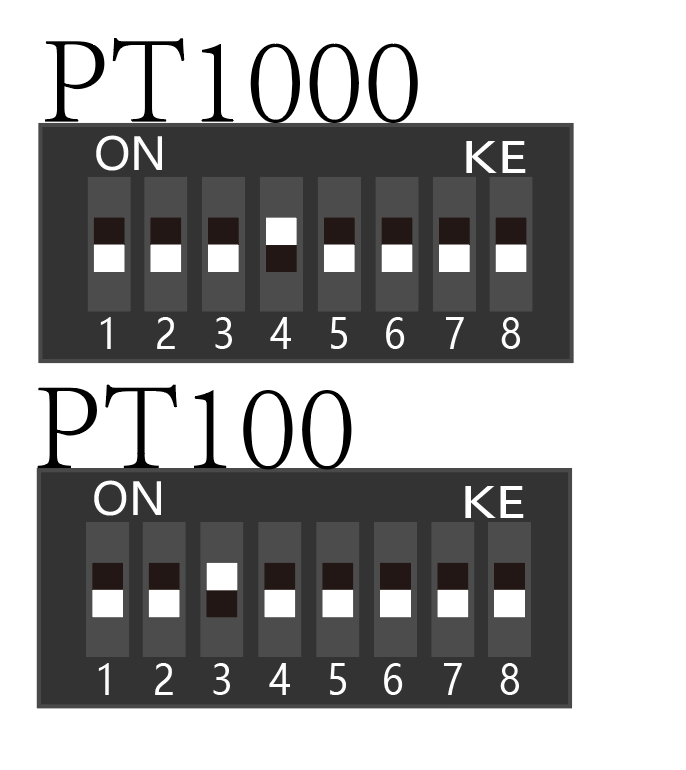
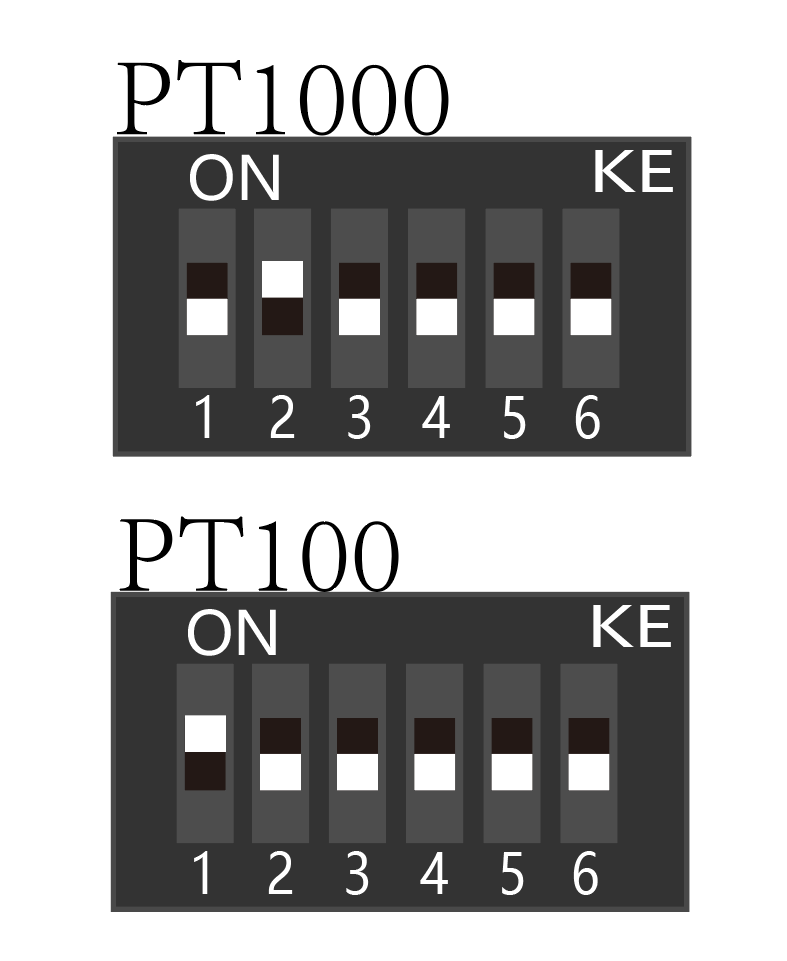
更新sht36v3

diff --git a/docs/board/fly_sht36_v3/cfg.md b/docs/board/fly_sht36_v3/cfg.md
@@ -1,12 +1,11 @@
-# 7. FLY-SB2040 v3配置参考
+# 7. FLY-SHT36 v3配置参考
 
 ```cfg
-
 #####################################################################
 # 	 Notes
 #####################################################################
-## 请将[include SB2040V3.cfg]添加到printer.cfg下
-## Please add [include SB2040V3.cfg] under printer.cfg
+## 请将[include SHT36V3.cfg]添加到printer.cfg下
+## Please add [include SHT36V3.cfg] under printer.cfg
 ## 工具板将使用以下几种配置，如果其他配置中使用到下面的配置可能会冲突
 ## The tool plate will use the following configurations, 
 ## and if the following configurations are used in other configurations, conflicts may occur.
@@ -16,34 +15,35 @@
 #####################################################################
 # 	 Master ID Configuration
 #####################################################################
-[mcu SB2040V3]  # 工具主板序列号
+[mcu SHT36V3]  # 工具主板序列号
 ## CAN ID
-## ~/klippy-env/bin/python ~/klipper/scripts/canbus_query.py can0
-canbus_uuid:
+## 查询指令~/klippy-env/bin/python ~/klipper/scripts/canbus_query.py can0
+canbus_uuid: 78fdc1f55345
 #--------------------------------------------------------------------
 # # RS232 ID
 ## 请根据固件配置填写波特率
 ## Please fill in the baud rate according to the firmware configuration.
-# serial: /dev/serial/by-path/
+## 查询指令 ls /dev/serial/by-path/*
+# serial: /dev/serial/by-path/platform-1c1c000.usb-usb-0:1.1:1.0-port0
 # baud: 250000
 # restart_method:command
 
 #####################################################################
 # 	 Temperature monitoring
 #####################################################################
-[temperature_sensor SB2040V3]
+[temperature_sensor SHT36V3]
 sensor_type: temperature_mcu
-sensor_mcu: SB2040V3
+sensor_mcu: SHT36V3
 
 #####################################################################
 # 	 Accelerometer
 #####################################################################
 ## https://www.klipper3d.org/Measuring_Resonances.html?h=adxl#adxl345
 [lis2dw]
-cs_pin: SB2040V3:gpio12
-spi_software_sclk_pin: SB2040V3:gpio2
-spi_software_mosi_pin: SB2040V3:gpio3
-spi_software_miso_pin: SB2040V3:gpio4
+cs_pin: SHT36V3:gpio12
+spi_software_sclk_pin: SHT36V3:gpio2
+spi_software_mosi_pin: SHT36V3:gpio3
+spi_software_miso_pin: SHT36V3:gpio4
 #--------------------------------------------------------------------
 [resonance_tester]
 accel_chip: lis2dw
@@ -60,12 +60,12 @@ hz_per_sec: 1
 #####################################################################
 ## https://github.com/VoronDesign/Voron-Stealthburner/tree/main
 [neopixel sb_leds]
-pin: SB2040V3:gpio26
-chain_count: 16
+pin: SHT36V3:gpio26
+chain_count: 3
 # Number of LEDs
 # 灯珠数量
 color_order: GRB
-initial_RED: 0.4    #66CCFF
+initial_RED: 0.4
 initial_GREEN: 0.8
 initial_BLUE: 1
 initial_WHITE: 0.0
@@ -79,21 +79,21 @@ initial_WHITE: 0.0
 ## Type of sensor - common thermistors are (Generic 3950, ATC Semitec 104GT-2)
 ## 传感器类型-常见的热敏电阻器是 (Generic 3950, ATC Semitec 104GT-2)
 sensor_type:ATC Semitec 104GT-2
-sensor_pin:SB2040V3:gpio27
+sensor_pin:SHT36V3:gpio27
 ###------------------------------------------------------------------
 ## If using PT1000, please connect the jumper next to the thermal sensitivity.
 ## 如果使用PT1000请将热敏旁边跳线接上
 # sensor_type:PT1000
-# sensor_pin:SB2040V3:gpio27
+# sensor_pin:SHT36V3:gpio27
 # pullup_resistor: 1000
 ###------------------------------------------------------------------
 ## Using MAX31865 to connect PT100 or PT1000
 ## 使用MAX31865接PT100或者PT1000
 # sensor_type: MAX31865
-# sensor_pin: SB2040V3:gpio17
-# spi_software_sclk_pin: SB2040V3:gpio2
-# spi_software_mosi_pin: SB2040V3:gpio3
-# spi_software_miso_pin: SB2040V3:gpio4
+# sensor_pin: SHT36V3:gpio17
+# spi_software_sclk_pin: SHT36V3:gpio2
+# spi_software_mosi_pin: SHT36V3:gpio3
+# spi_software_miso_pin: SHT36V3:gpio4
 # rtd_reference_r: 430
 
 #####################################################################
@@ -101,9 +101,9 @@ sensor_pin:SB2040V3:gpio27
 #####################################################################
 ## https://www.klipper3d.org/Config_Reference.html#extruder
 [extruder]
-step_pin:SB2040V3:gpio14
-dir_pin:SB2040V3:gpio13
-enable_pin: !SB2040V3:gpio16
+step_pin:SHT36V3:gpio7
+dir_pin:SHT36V3:gpio6
+enable_pin: !SHT36V3:gpio14
 rotation_distance: 22.44
 ## rotation_distance = The original rotation_distance multiplied by the actual extrusion length divided by the requested extrusion length.
 ## 校准步进值: 22.44=旧值22*实际值102/目标值100
@@ -113,18 +113,13 @@ microsteps:16
 full_steps_per_rotation: 200   
 nozzle_diameter:0.400
 filament_diameter:1.75
-heater_pin:SB2040V3:gpio23
+heater_pin:SHT36V3:gpio23
 min_temp:-200
 max_temp:99999999999999999999
 max_power:1.0
-min_extrude_temp:50
+min_extrude_temp:-200
 pressure_advance: 0.05
-##Pressure in advance
-##压力提前
-##https://www.klipper3d.org/zh/Pressure_Advance.html
 pressure_advance_smooth_time: 0.040
-#max_extrude_only_distance: 200.0   # 挤出流量报错可以注释这个，但是建议重新切片
-#喷嘴温度PID校准命令：PID_CALIBRATE HEATER=extruder TARGET=245
 control: pid
 pid_kp: 26.213
 pid_ki:1.304
@@ -132,7 +127,7 @@ pid_kd: 131.721
 step_pulse_duration: 0.000004
 ###------------------------------------------------------------------
 [tmc2209 extruder]
-uart_pin:SB2040V3:gpio15
+uart_pin:SHT36V3:gpio15
 interpolate:False
 run_current: 0.8
 sense_resistor:0.110
@@ -144,14 +139,15 @@ check_gain_time:120
 hysteresis: 50
 heating_gain: 2
 
+
 #####################################################################
 # 	 FAN
 #####################################################################
 [fan]
-pin:SB2040V3:gpio24
+pin:SHT36V3:gpio21
 ###------------------------------------------------------------------
 [heater_fan my_hotend_fan]
-pin: SB2040V3:gpio19
+pin: SHT36V3:gpio13
 heater: extruder
 heater_temp: 50.0
 
@@ -159,14 +155,14 @@ heater_temp: 50.0
 # 	 TAP && PL08N && BLTOUCH 
 #####################################################################
 # [stepper_x]
-# endstop_pin: ^!SB2040V3:gpio16
+# endstop_pin: ^!SHT36V3:gpio16
 
-# #####################################################################
-# # 	 TAP && PL08N && BLTOUCH 
-# #####################################################################
-# ## https://www.klipper3d.org/Config_Reference.html?h=probe#probe
+#####################################################################
+# 	 TAP && PL08N && BLTOUCH 
+#####################################################################
+## https://www.klipper3d.org/Config_Reference.html?h=probe#probe
 # [probe]
-# pin: ^SB2040V3:gpio22          #gpio22
+# pin: ^SHT36V3:gpio22
 # x_offset: 0
 # y_offset: 25.0
 # z_offset: 0
@@ -176,3 +172,11 @@ heater_temp: 50.0
 # sample_retract_dist: 4.0
 # samples_tolerance: 0.010
 # samples_tolerance_retries: 3
+#--------------------------------------------------------------------
+## https://www.klipper3d.org/Config_Reference.html?h=probe#bltouch
+#[bltouch]
+#sensor_pin: ^SHT36V3:gpio22    # 信号接口
+#control_pin: SHT36V3:gpio24    # 舵机控制
+#x_offset: -26.1              # X轴-传感器相对喷嘴偏移量，需要自行确定偏移量
+#y_offset: -15.3              # Y轴-传感器相对喷嘴偏移量，需要自行确定偏移量
+#z_offset: 2.1                # Z轴-传感器相对喷嘴偏移量，需要自行确定偏移量

diff --git a/docs/_sidebar.md b/docs/_sidebar.md
@@ -55,26 +55,27 @@
   
 - **工具板**
   - SHT 系列CAN工具板
+    - [FLY-SHT36-V3](/board/fly_sht36_v3/README.md)
     - [FLY-SHT36-Pro](/board/fly_sht36_pro/README.md)
     - [FLY-SHT36-V2](/board/fly_sht_v2/README.md)
     - [FLY-SHT36/42](/board/fly_sht36_42/README.md)
     - [FLY-SHT36-LIS3DH](/board/fly_shtadxl/README.md)
-
+    
   - SB2040 系列CAN工具板
     * [FLY-SB2040-PRO_V3](/board/fly_sb2040_v3_pro/README.md)
     * [FLY-SB2040-V3](/board/fly_sb2040_v3/README.md)
     * [FLY-SB2040-Pro](/board/fly_sb2040_pro/README.md)
     * [FLY-SB2040-V1&V2](/board/fly_sb2040/README.md)
-
+  
   - RRF系列CAN工具板
     * [FLY-RRF36](/board/fly_rrf36/README.md)
-
+  
   - USB系列CAN工具板
     * [FLY-RHT36/42](/board/fly_rht36_42/README.md)
-
+  
   - 兔子多色CAN扩展板
     * [FLY-ERCF](/board/fly_ercf/README.md)
-
+  
   - FLY MiniAB 集线板
     * [FLY MiniAB 集线板](/board/miniab_board/README.md)
 - **扩展类**

diff --git a/docs/board/fly_sht36_v3/max31865.md b/docs/board/fly_sht36_v3/max31865.md
@@ -1,21 +1,11 @@
-# 8P拨码开关使用
+# 6P拨码开关使用
 
-# 120Ω跳线
-
-* 默认关闭
-
-![120Ω](../../images/boards/fly_sb2040_v3/120Ω.png)
-
-# HVIN输入口
-
-* 关闭为高压输入口，打开为普通限位口
-
-![hvin](../../images/boards/fly_sb2040_v3/hvin.png)
+* 拨码默认关闭
 
 # PT100与PT1000选择
 
-![PT](../../images/boards/fly_sb2040_v3/PT.png)
+![PT](../../images/boards/fly_sht36_v3/PT.png)
 
 # 线序选择
 
-![31865](../../images/boards/fly_sb2040_v3/31865.jpg)
+![31865](../../images/boards/fly_sht36_v3/31865.png)

diff --git a/docs/board/fly_sht36_v3/_sidebar.md b/docs/board/fly_sht36_v3/_sidebar.md
@@ -6,7 +6,7 @@
   * [4. Id读取](/board/fly_sht36_v3/uuid.md)
   * [5. 引脚分布](/board/fly_sht36_v3/pins.md)
   * [6. 工具板接线](/board/fly_sht36_v3/wiring.md)
-  * [7. 8P拨码使用](/board/fly_sht36_v3/max31865.md)
+  * [7. 6P拨码使用](/board/fly_sht36_v3/max31865.md)
   * [8. printer参考配置](/board/fly_sht36_v3/cfg.md)
   * [9. 加速度计](/board/fly_sht36_v3/adxl345.md)
   * [10. 原理图](/board/fly_sht36_v3/schematic.md)

diff --git a/docs/board/fly_sht36_v3/3dmodel.md b/docs/board/fly_sht36_v3/3dmodel.md
@@ -1,10 +1,10 @@
-# FLY-SB2040-V3模型
+# FLY-SHT36-V3模型
 
 >[!WARNING]
 >
 >本地浏览器渲染模型较慢，建议将模型下载到本地计算机查看
 
 ```3dmodel
-https://cdn.mellow.klipper.cn/STEP/FLY_SB2040_PRO_V3.step
+https://cdn.mellow.klipper.cn/STEP/FLY-SHT36-V3.step
 ```
 

diff --git a/docs/board/fly_sht36_v3/schematic.md b/docs/board/fly_sht36_v3/schematic.md
@@ -1,7 +1,7 @@
-# FLY-SB2040-V3原理图
+# FLY-SHT36-V3原理图
 
 ```pdf
-https://cdn.mellow.klipper.cn/SCH-PDF/FLY_SB2040_Pro_V3.pdf
+https://cdn.mellow.klipper.cn/SCH-PDF/Fly-SHTT36V3.pdf
 ```
 
 

diff --git a/docs/board/fly_sb2040_v3/max31865.md b/docs/board/fly_sb2040_v3/max31865.md
@@ -1,8 +1,10 @@
 # 8P拨码开关使用
 
+* 默认是全关闭
+
 # 120Ω跳线
 
-* 默认关闭
+* 打开120Ω跳线
 
 ![120Ω](../../images/boards/fly_sb2040_v3/120Ω.png)
 

diff --git a/docs/board/fly_sb2040_v3_pro/max31865.md b/docs/board/fly_sb2040_v3_pro/max31865.md
@@ -1,8 +1,10 @@
 # 8P拨码开关使用
 
+* 默认是全关闭
+
 # 120Ω跳线
 
-* 默认关闭
+* 打开120Ω跳线
 
 ![120Ω](../../images/boards/fly_sb2040_v3/120Ω.png)
 
